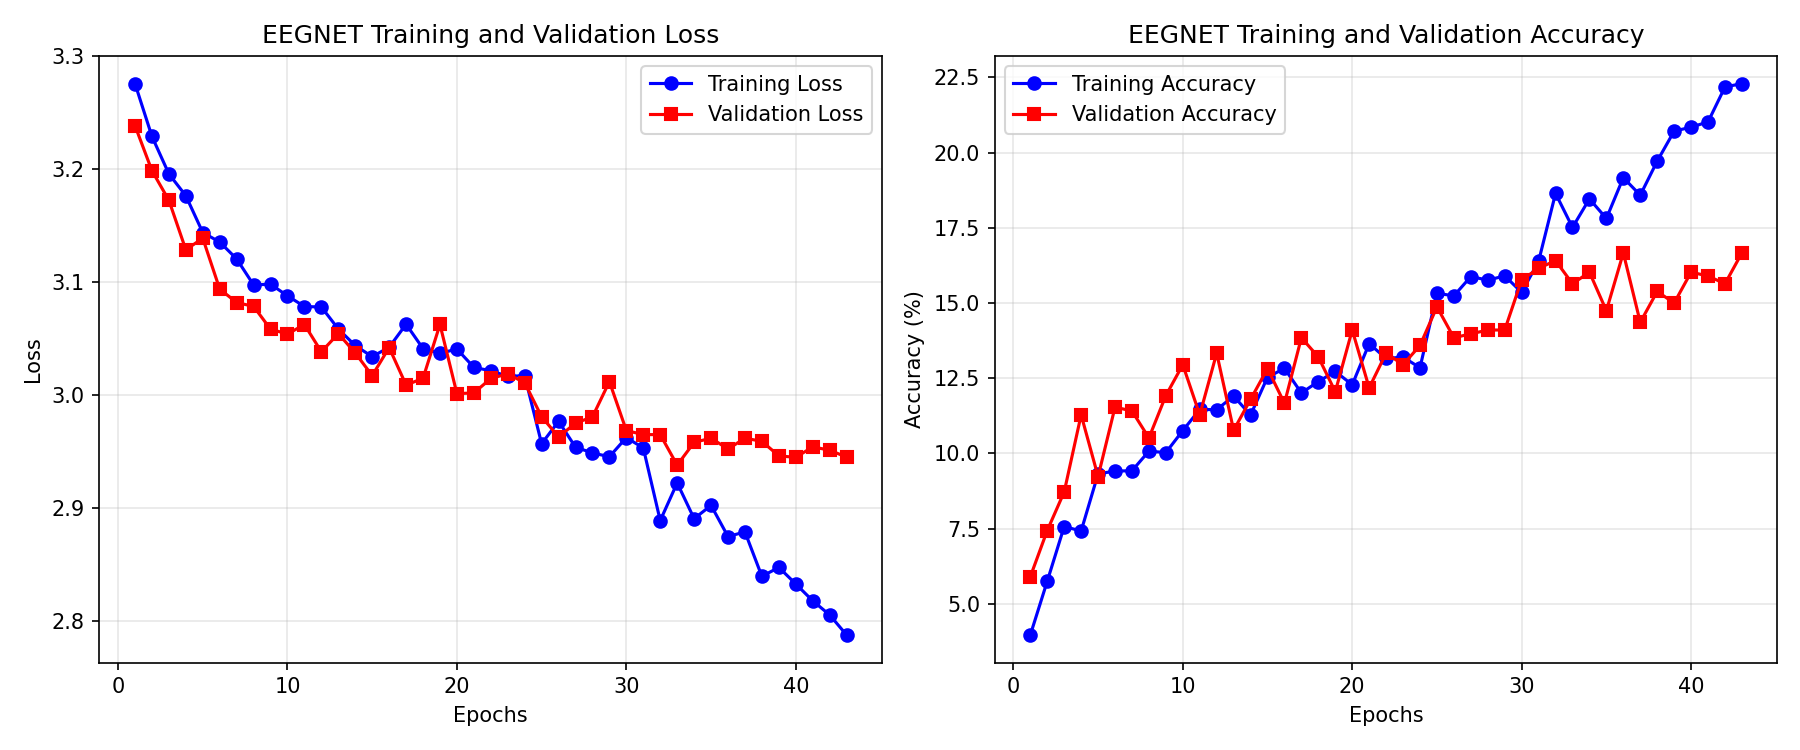
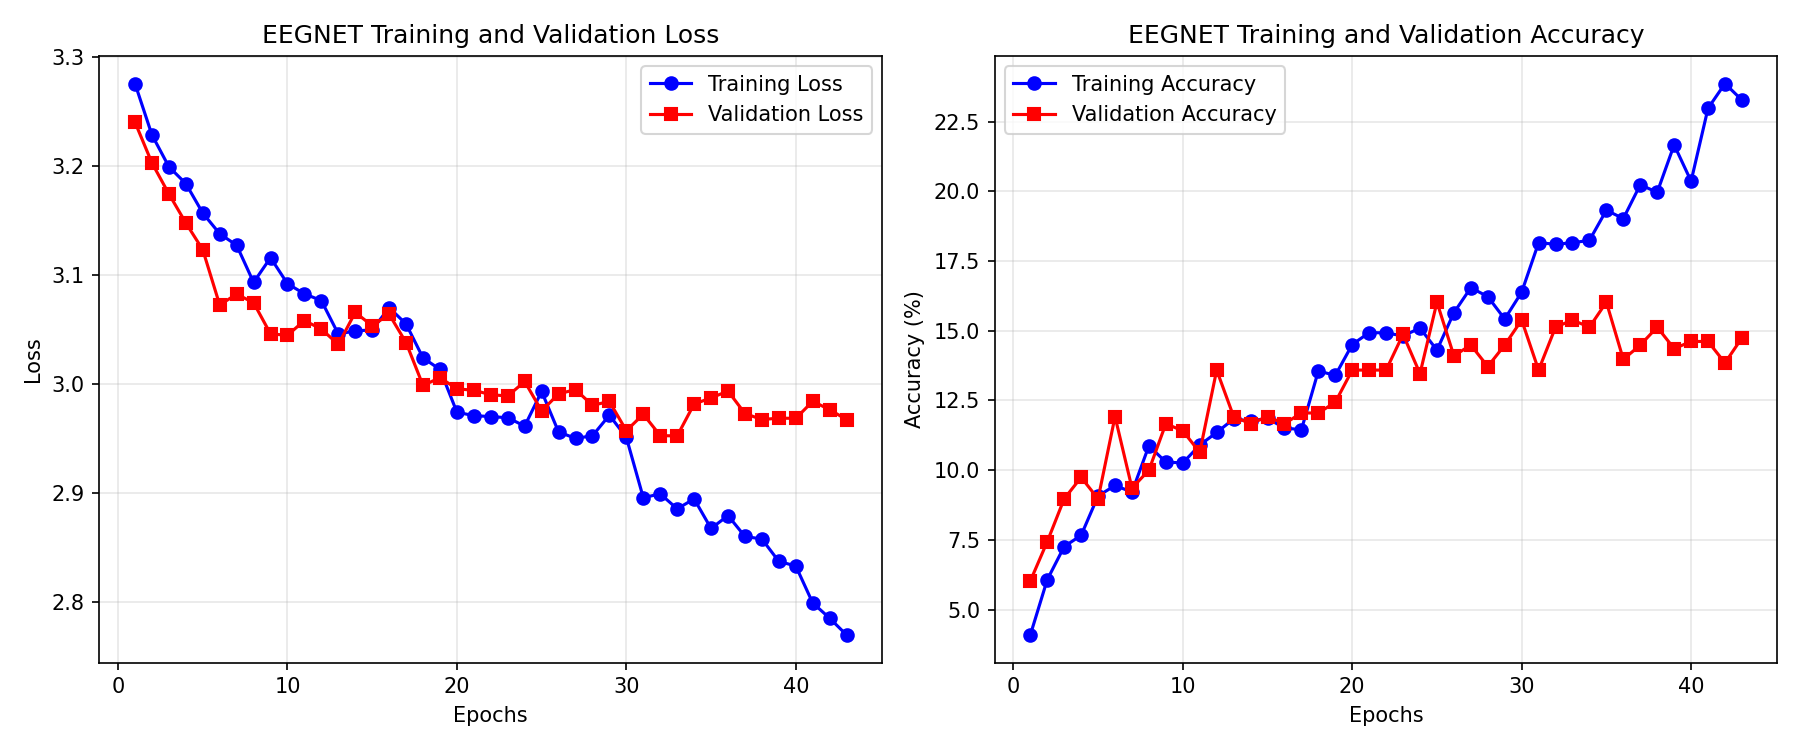
V2.4 Removal of CutMix due to underperformance

diff --git a/src/train.py b/src/train.py
@@ -99,8 +99,7 @@ def load_and_split_data_pipeline(npz_path, downsample_factor=5):
 def train_deep_learning_model(model_type, X_train, y_train, X_val, y_val, 
                               channels_count, time_points_count, num_epochs=15, 
                               batch_size=128, lr=0.005, temporal_kernel=64,
-                              use_mixup=False, mixup_alpha=0.2,
-                              use_cutmix=False, cutmix_alpha=0.5):
+                              use_mixup=False, mixup_alpha=0.2):
     """
     Trains either the 2D CNN or the fully-fledged EEGNet model, enforcing 
     checkpoint saving based on the highest validation accuracy.
@@ -109,8 +108,6 @@ def train_deep_learning_model(model_type, X_train, y_train, X_val, y_val,
     print(f"\nInitializing {model_type.upper()} on device: {device}")
     if use_mixup:
         print(f"Applying Mixup Augmentation (alpha={mixup_alpha}) during training...")
-    if use_cutmix:
-        print(f"Applying CutMix Augmentation (alpha={cutmix_alpha}) during training...")
     
     if model_type == "2d_cnn":
         model = LightEEG2DCNN(num_classes=26).to(device)
@@ -197,28 +194,6 @@ def train_deep_learning_model(model_type, X_train, y_train, X_val, y_val,
                 
                 _, predicted = outputs.max(1)
                 correct_train += lam * predicted.eq(batch_y).sum().item() + (1 - lam) * predicted.eq(batch_y[index]).sum().item()
-            elif use_cutmix and cutmix_alpha > 0:
-                lam = np.random.beta(cutmix_alpha, cutmix_alpha)
-                batch_size_curr = batch_x.size(0)
-                index = torch.randperm(batch_size_curr, device=device)
-                
-                T = batch_x.size(3)
-                block_len = int(np.round(T * (1.0 - lam)))
-                block_len = max(1, min(T - 1, block_len))
-                
-                t_start = np.random.randint(0, T - block_len)
-                t_end = t_start + block_len
-                
-                mixed_x = batch_x.clone()
-                mixed_x[:, :, :, t_start:t_end] = batch_x[index, :, :, t_start:t_end]
-                
-                lam_actual = 1.0 - (block_len / T)
-                outputs = model(mixed_x)
-                
-                loss = lam_actual * criterion(outputs, batch_y) + (1.0 - lam_actual) * criterion(outputs, batch_y[index])
-                
-                _, predicted = outputs.max(1)
-                correct_train += lam_actual * predicted.eq(batch_y).sum().item() + (1.0 - lam_actual) * predicted.eq(batch_y[index]).sum().item()
             else:
                 outputs = model(batch_x)
                 loss = criterion(outputs, batch_y)
@@ -422,10 +397,6 @@ if __name__ == "__main__":
                         help="Enable Mixup data augmentation during training")
     parser.add_argument("--mixup-alpha", type=float, default=0.2,
                         help="Alpha parameter for Beta distribution in Mixup (default: 0.2)")
-    parser.add_argument("--cutmix", action="store_true",
-                        help="Enable CutMix data augmentation during training")
-    parser.add_argument("--cutmix-alpha", type=float, default=0.5,
-                        help="Alpha parameter for Beta distribution in CutMix (default: 0.5)")
     args = parser.parse_args()
     
     print("==========================================================")
@@ -481,9 +452,7 @@ if __name__ == "__main__":
             lr=0.005,
             temporal_kernel=temporal_kernel_len,
             use_mixup=args.mixup,
-            mixup_alpha=args.mixup_alpha,
-            use_cutmix=args.cutmix,
-            cutmix_alpha=args.cutmix_alpha
+            mixup_alpha=args.mixup_alpha
         )
         
         # Plot curves